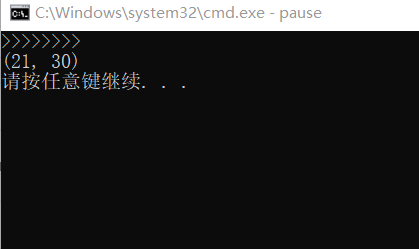
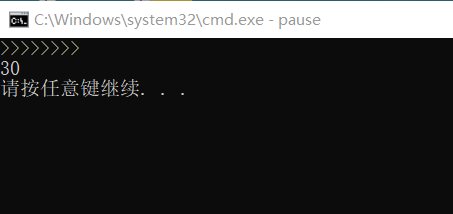
MF1933119 11/28 modified

Changed region(s): [[0.0, 0.0, 1.0, 0.4766]]

diff --git a/MF1933119/swift/ArraySlice_append_Element.swift b/MF1933119/swift/ArraySlice_append_Element.swift
@@ -9,16 +9,14 @@
  class ArraySlice_append_Element {
    /**
      * input: 2
-     * class0 ArraySlice$class0
+     * class0 class0=["hello","and"]
      * newElement newElement="world"
      * output: 0
-     * ArraySlice$class0-Array$array.dropLast() & array = ["hello","and","world"] & https://developer.apple.com/documentation/swift/arrayslice/3126964-append
      */
 
      static func append0() {
        print(">>>>>>>>>>>>>>"); 
-       let array = ["hello","and","world"];
-       var class0 = array.dropLast();
+       var class0: ArraySlice = ["hello","and"];
 
        print(class0);
 
@@ -30,16 +28,14 @@
 
        /**
      * input: 2
-     * class0 ArraySlice$class0
+     * class0 class0=["hello","and"]
      * newElement newElement=""
      * output: 0
-     * ArraySlice$class0-Array$array.dropLast() & array = ["hello","and","world"] & https://developer.apple.com/documentation/swift/arrayslice/3126964-append
      */
 
      static func append1() {
        print(">>>>>>>>>>>>>>"); 
-       let array = ["hello","and","world"];
-       var class0 = array.dropLast();
+       var class0: ArraySlice = ["hello","and"];
 
        print(class0);
 

diff --git a/MF1933119/swift/String_init.swift b/MF1933119/swift/String_init.swift
@@ -9,22 +9,18 @@ struct Point {
   let x:Int, y:Int
 }
 
-extension Point: CustomStringConvertible {
-  var description: String {
-    return "(\(x), \(y))"
-  }
-}
 
  class String_init{
      /**
      * input: 1
-     * class0 class0=Point(x:21, y:30)
+     * class0 class0=30
      * output: 
      */
 
     static func init0(){
         print(">>>>>>>>");
-        let class0 = Point(x:21, y:30)
+        let class0 = 30
+        assert(String(describing: class0) == "30")
         print(String(describing: class0))
     }
 }

diff --git a/MF1933119/swift/NSNumber_int16Value.swift b/MF1933119/swift/NSNumber_int16Value.swift
@@ -10,7 +10,7 @@ import Foundation
  class NSNumber_int16Value {
    /**
      * input: 1
-     * class0 class0:NSNumber = 100
+     * class0 class0 = 100
      * output: 1
      * ret0 ret0=100
    */
